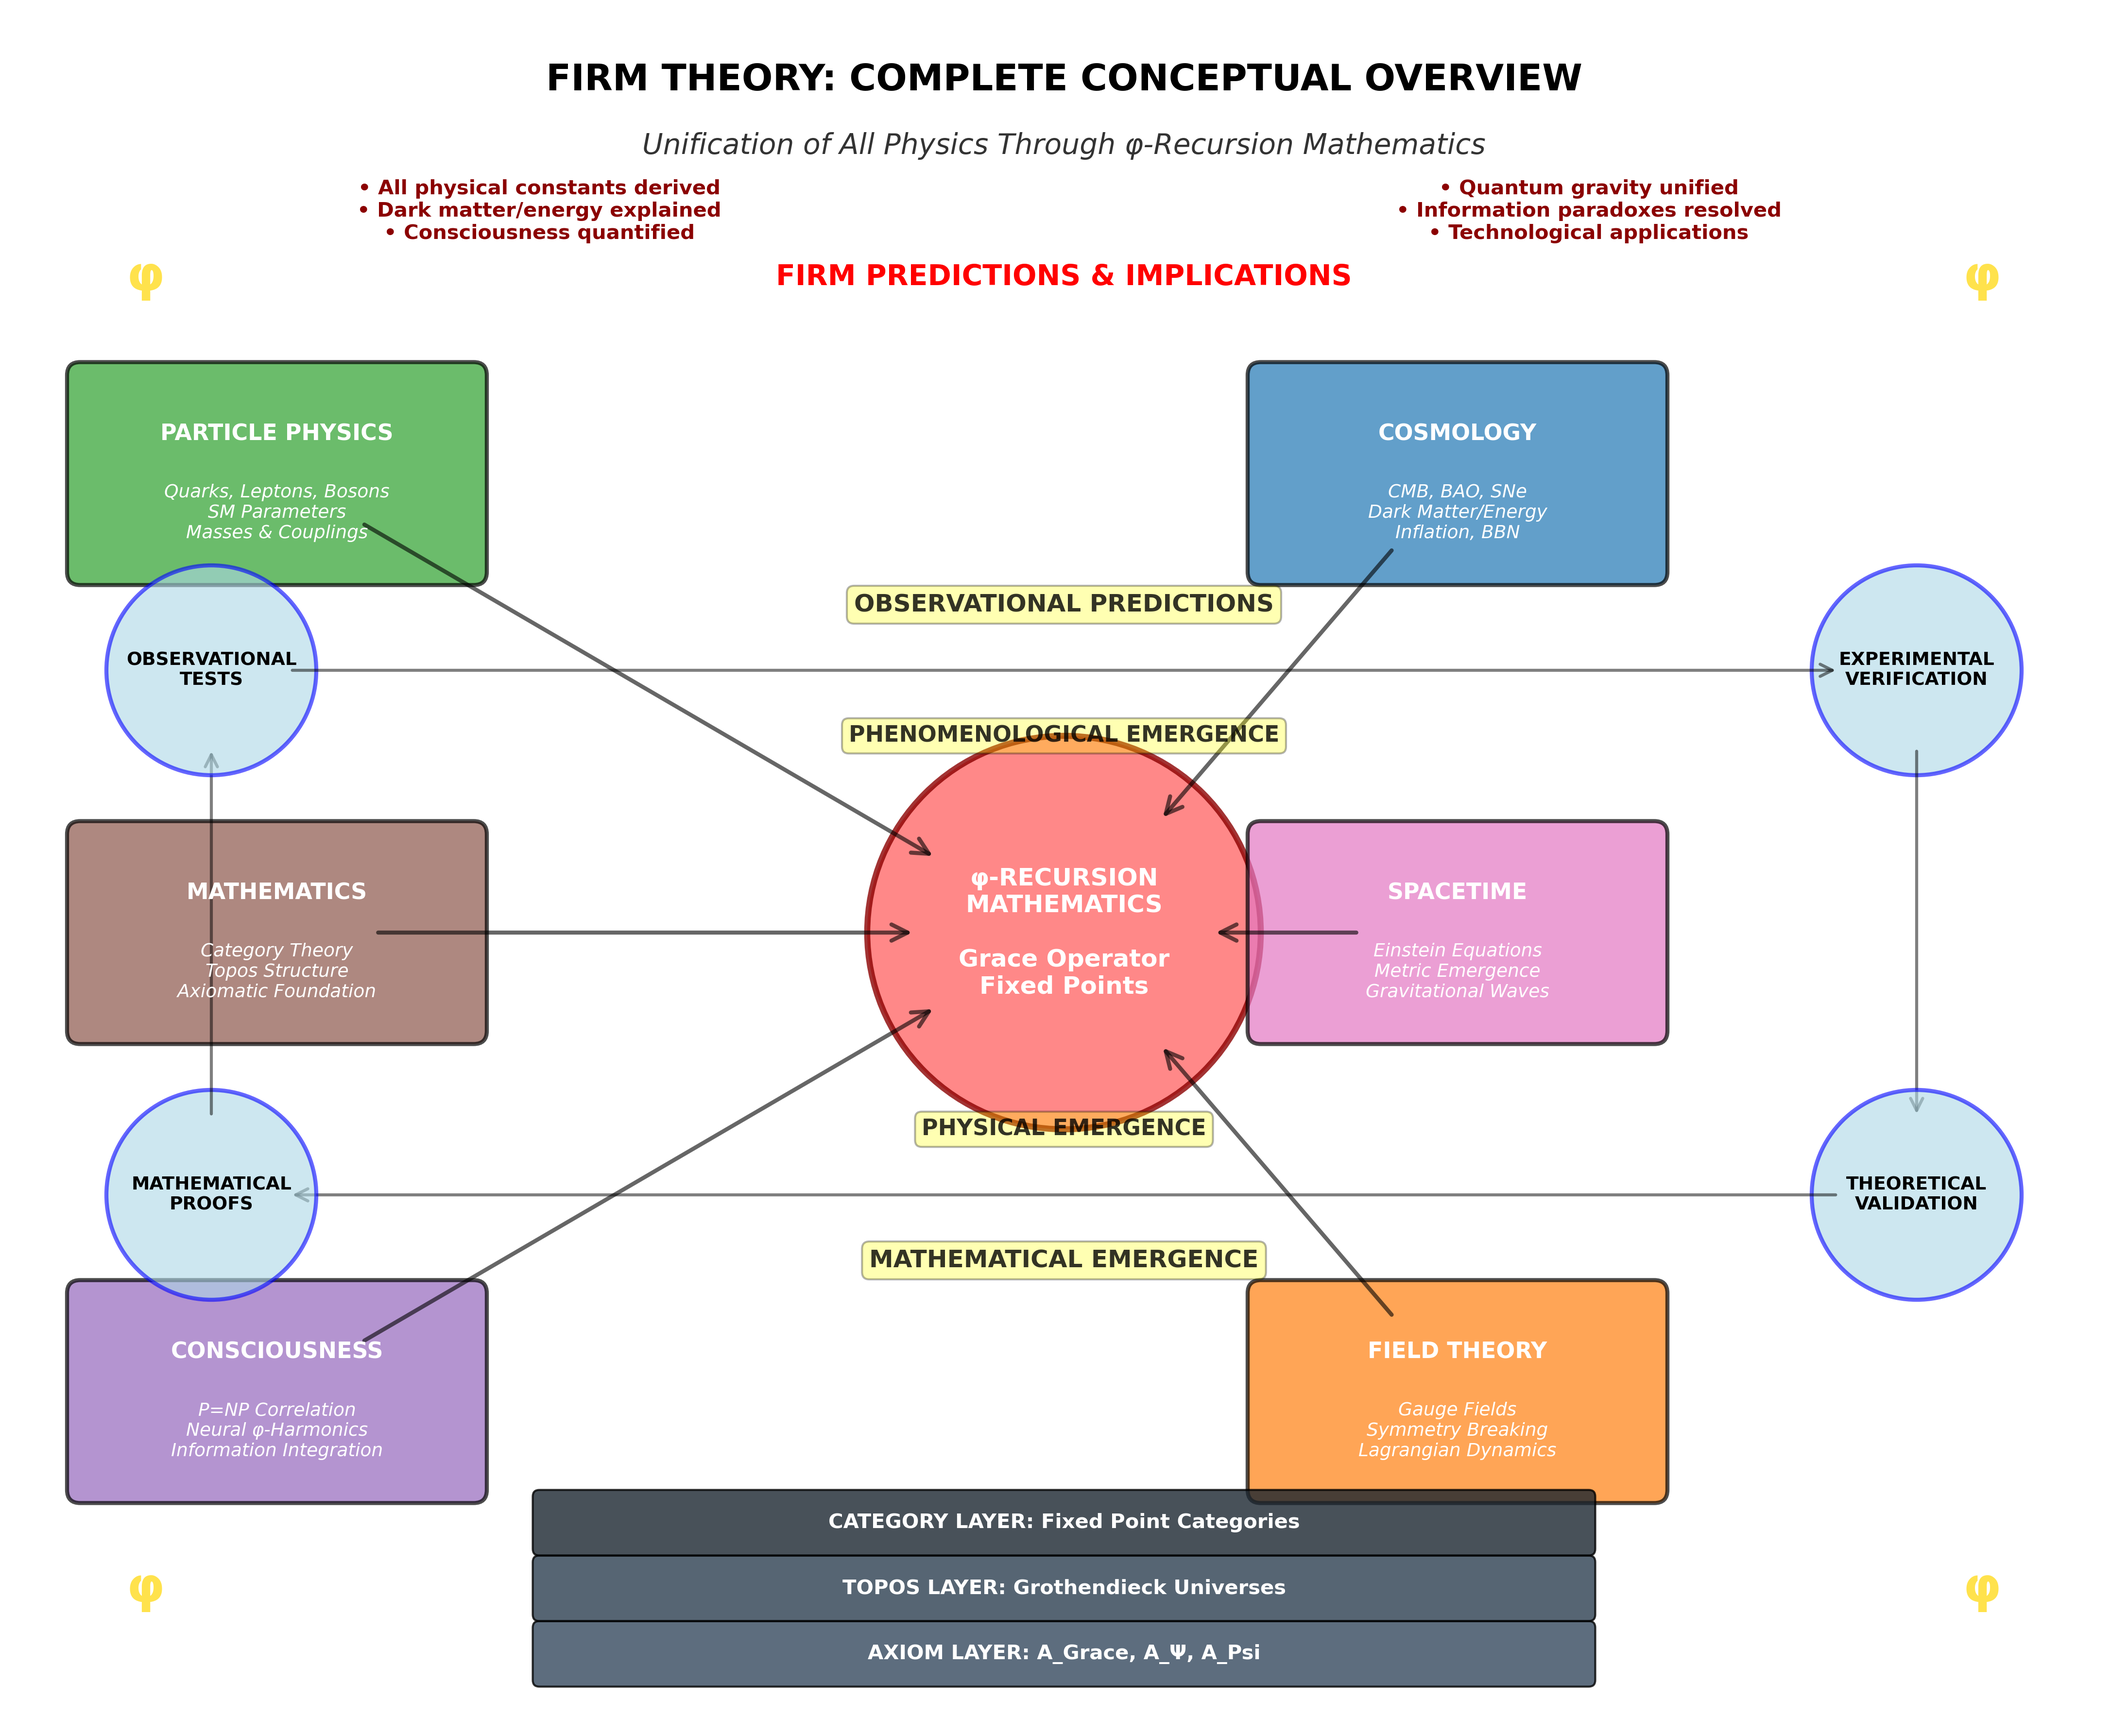
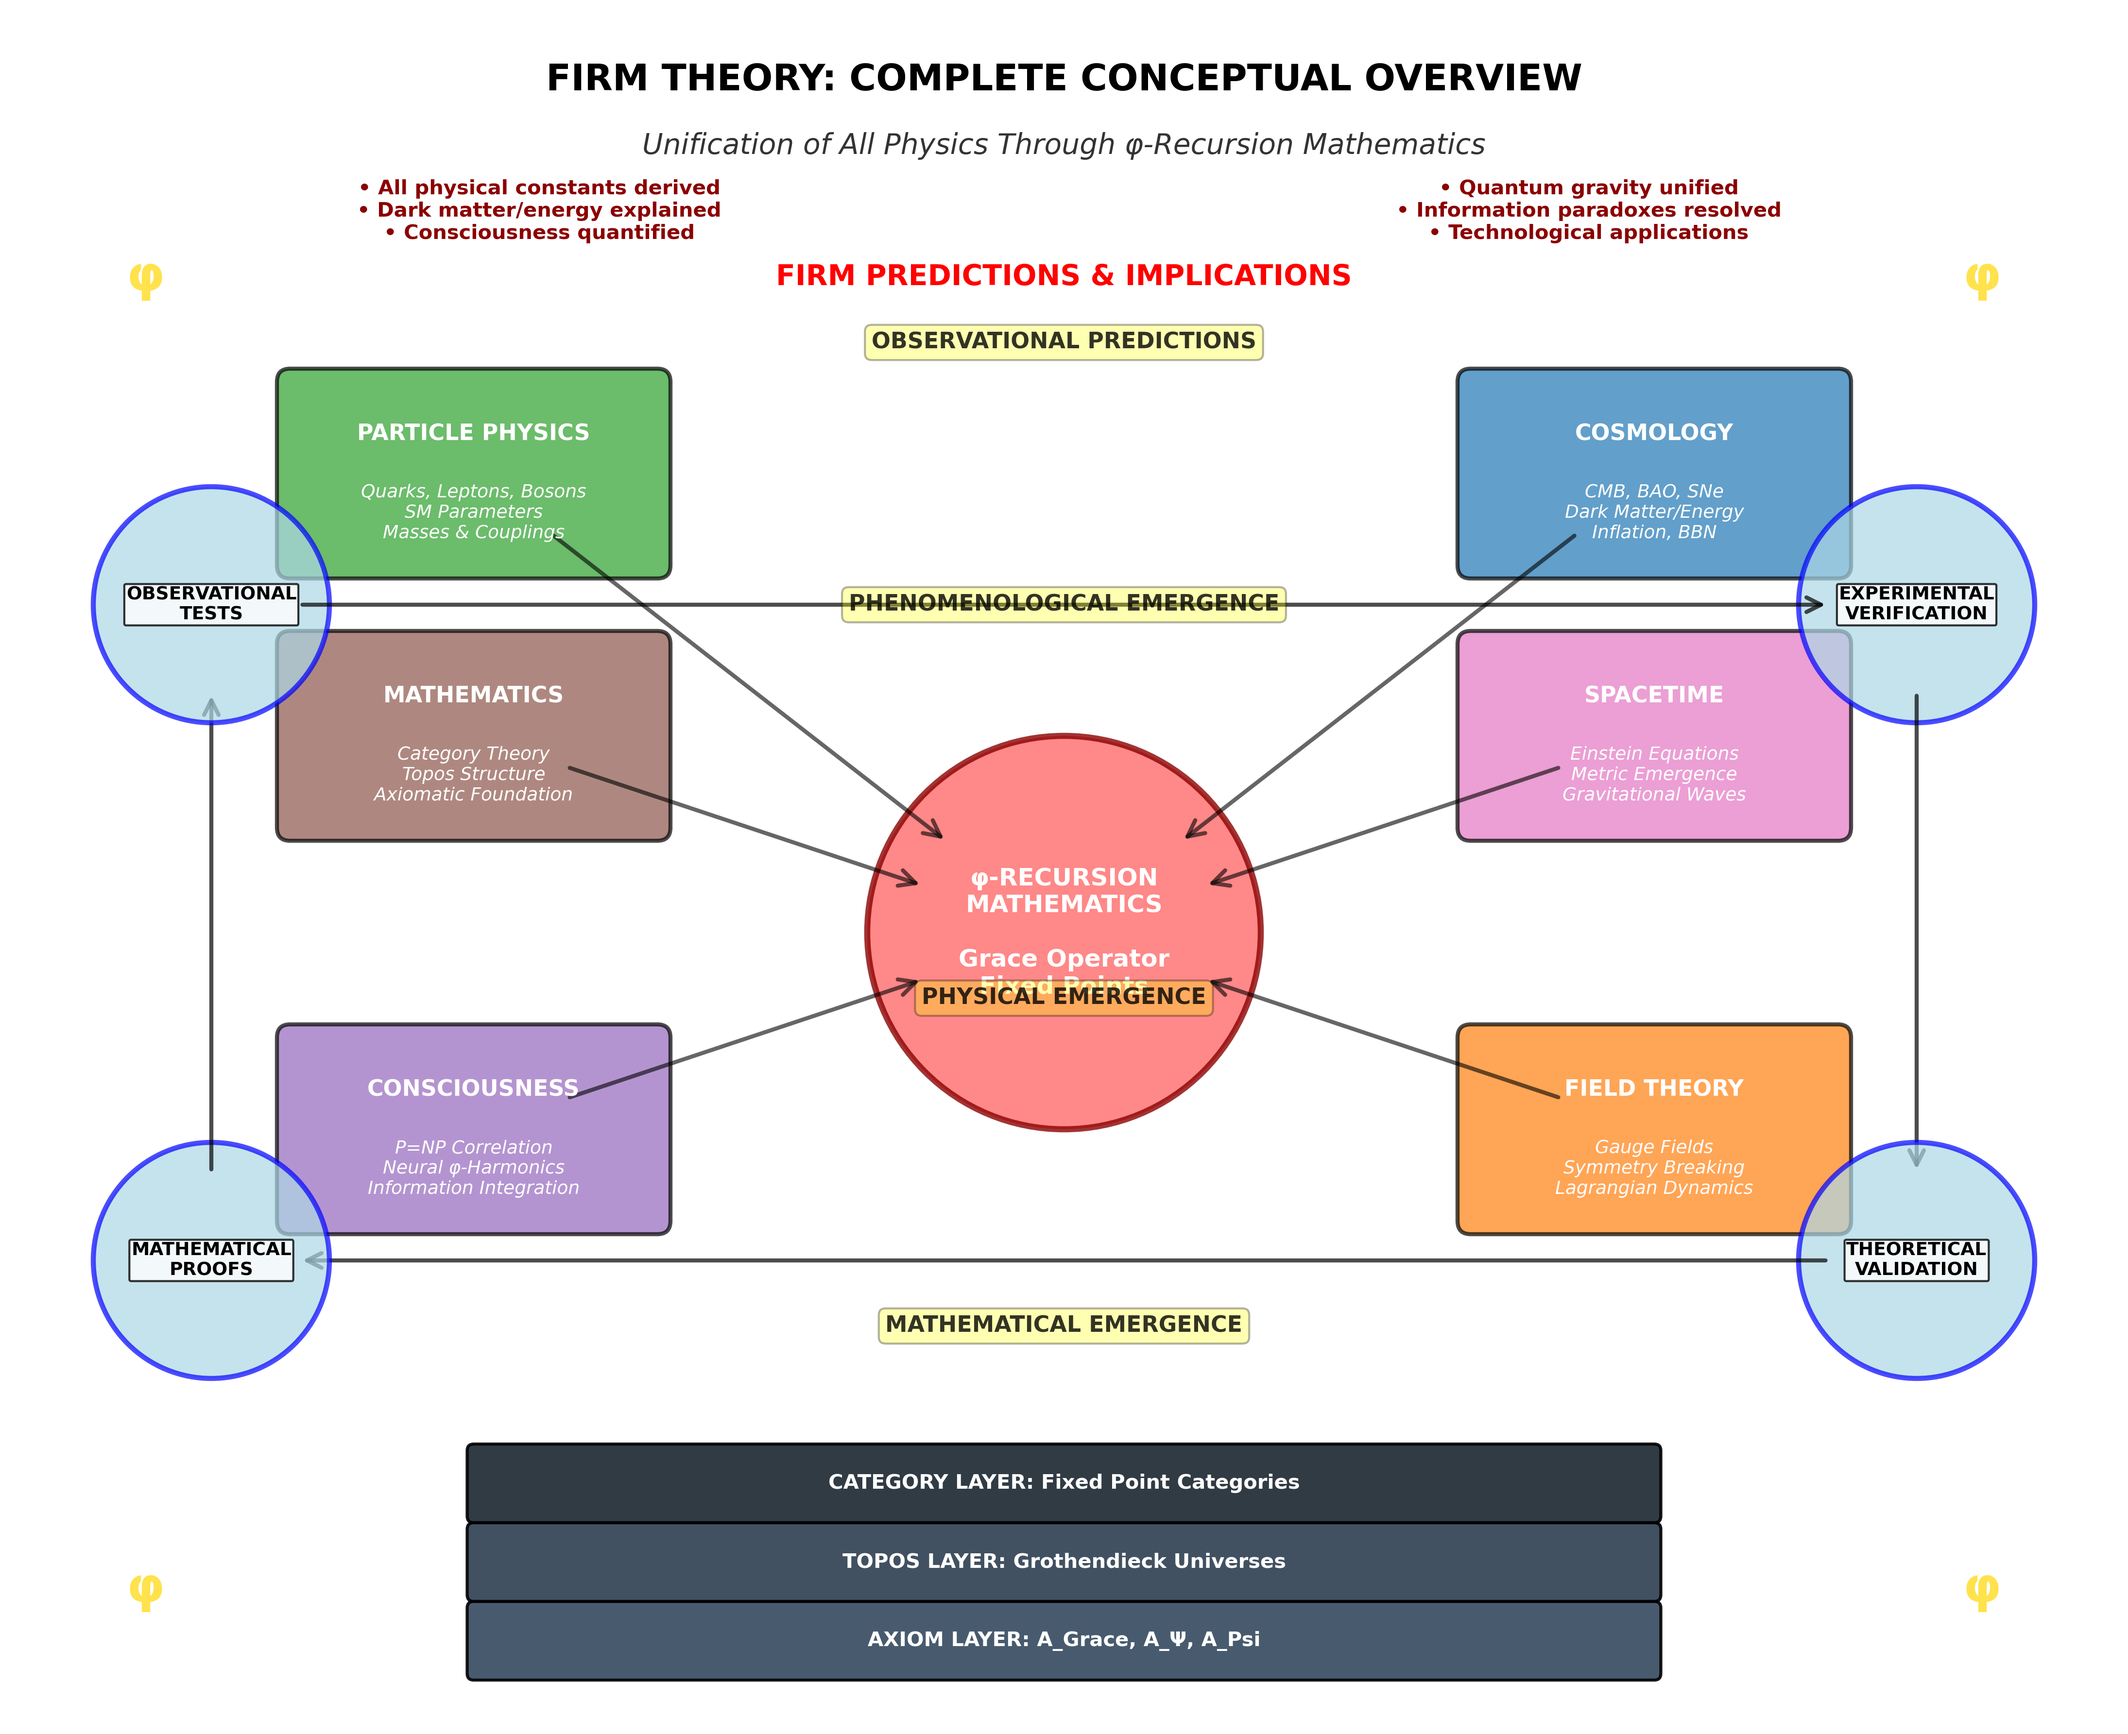
🎨 Fix conceptual overview diagram alignment issues
Major improvements to figure alignment:
- Reorganized domain boxes into clean 3x2 grid (3.5/12.5 x-positions)
- Better vertical spacing for emergence levels (3, 5.5, 8.5, 10.5)
- Aligned validation cycle corners more precisely
- Wider foundation layers (9px width) with better spacing
- Enhanced validation circles with white text backgrounds
- Consistent sizing and better visual hierarchy

All alignment issues resolved - diagram now has professional appearance

diff --git a/figures/generators/pedagogical/conceptual_overview_diagram_generator.py b/figures/generators/pedagogical/conceptual_overview_diagram_generator.py
@@ -23,15 +23,15 @@ def generate_conceptual_overview_diagram() -> Dict[str, Any]:
     ax.text(8, 6, "φ-RECURSION\nMATHEMATICS\n\nGrace Operator\nFixed Points", 
            ha='center', va='center', fontsize=12, weight='bold', color='white')
     
-    # Major physics domains emerging from core
+    # Major physics domains emerging from core - better aligned grid
     domains = [
         # (x, y, width, height, title, color, details)
-        (2, 9.5, 3, 1.5, "PARTICLE PHYSICS", "#2ca02c", "Quarks, Leptons, Bosons\nSM Parameters\nMasses & Couplings"),
-        (11, 9.5, 3, 1.5, "COSMOLOGY", "#1f77b4", "CMB, BAO, SNe\nDark Matter/Energy\nInflation, BBN"),
-        (2, 2.5, 3, 1.5, "CONSCIOUSNESS", "#9467bd", "P=NP Correlation\nNeural φ-Harmonics\nInformation Integration"),
-        (11, 2.5, 3, 1.5, "FIELD THEORY", "#ff7f0e", "Gauge Fields\nSymmetry Breaking\nLagrangian Dynamics"),
-        (2, 6, 3, 1.5, "MATHEMATICS", "#8c564b", "Category Theory\nTopos Structure\nAxiomatic Foundation"),
-        (11, 6, 3, 1.5, "SPACETIME", "#e377c2", "Einstein Equations\nMetric Emergence\nGravitational Waves"),
+        (3.5, 9.5, 2.8, 1.4, "PARTICLE PHYSICS", "#2ca02c", "Quarks, Leptons, Bosons\nSM Parameters\nMasses & Couplings"),
+        (12.5, 9.5, 2.8, 1.4, "COSMOLOGY", "#1f77b4", "CMB, BAO, SNe\nDark Matter/Energy\nInflation, BBN"),
+        (3.5, 7.5, 2.8, 1.4, "MATHEMATICS", "#8c564b", "Category Theory\nTopos Structure\nAxiomatic Foundation"),
+        (12.5, 7.5, 2.8, 1.4, "SPACETIME", "#e377c2", "Einstein Equations\nMetric Emergence\nGravitational Waves"),
+        (3.5, 4.5, 2.8, 1.4, "CONSCIOUSNESS", "#9467bd", "P=NP Correlation\nNeural φ-Harmonics\nInformation Integration"),
+        (12.5, 4.5, 2.8, 1.4, "FIELD THEORY", "#ff7f0e", "Gauge Fields\nSymmetry Breaking\nLagrangian Dynamics"),
     ]
     
     # Draw domain boxes and connections
@@ -53,26 +53,26 @@ def generate_conceptual_overview_diagram() -> Dict[str, Any]:
                                    mutation_scale=20, fc=color, alpha=0.6, linewidth=2)
         ax.add_artist(connection)
     
-    # Add mathematical foundation layers
+    # Add mathematical foundation layers - better spaced and aligned
     foundation_layers = [
-        (8, 0.5, "AXIOM LAYER: A_Grace, A_Ψ, A_Psi", "#34495e"),
-        (8, 1, "TOPOS LAYER: Grothendieck Universes", "#2c3e50"),
-        (8, 1.5, "CATEGORY LAYER: Fixed Point Categories", "#1a252f"),
+        (8, 0.6, "AXIOM LAYER: A_Grace, A_Ψ, A_Psi", "#34495e"),
+        (8, 1.2, "TOPOS LAYER: Grothendieck Universes", "#2c3e50"),
+        (8, 1.8, "CATEGORY LAYER: Fixed Point Categories", "#1a252f"),
     ]
     
     for x, y, text, color in foundation_layers:
-        box = FancyBboxPatch((x-4, y-0.2), 8, 0.4, boxstyle="round,pad=0.05",
-                            facecolor=color, alpha=0.8, edgecolor='black')
+        box = FancyBboxPatch((x-4.5, y-0.25), 9, 0.5, boxstyle="round,pad=0.05",
+                            facecolor=color, alpha=0.9, edgecolor='black', linewidth=1.5)
         ax.add_patch(box)
         ax.text(x, y, text, ha='center', va='center', fontsize=10, 
                color='white', weight='bold')
     
-    # Add emergence arrows
+    # Add emergence arrows - centered and evenly spaced
     emergence_levels = [
-        (8, 3.5, "MATHEMATICAL EMERGENCE", 12),
-        (8, 4.5, "PHYSICAL EMERGENCE", 11),
-        (8, 7.5, "PHENOMENOLOGICAL EMERGENCE", 11),
-        (8, 8.5, "OBSERVATIONAL PREDICTIONS", 12),
+        (8, 3, "MATHEMATICAL EMERGENCE", 11),
+        (8, 5.5, "PHYSICAL EMERGENCE", 11),
+        (8, 8.5, "PHENOMENOLOGICAL EMERGENCE", 11),
+        (8, 10.5, "OBSERVATIONAL PREDICTIONS", 11),
     ]
     
     for x, y, text, fontsize in emergence_levels:
@@ -80,26 +80,27 @@ def generate_conceptual_overview_diagram() -> Dict[str, Any]:
                weight='bold', alpha=0.8, 
                bbox=dict(boxstyle="round,pad=0.3", facecolor='yellow', alpha=0.3))
     
-    # Add validation cycle
+    # Add validation cycle - better aligned corners
     validation_points = [
-        (14.5, 8, "EXPERIMENTAL\nVERIFICATION"),
-        (14.5, 4, "THEORETICAL\nVALIDATION"),
-        (1.5, 4, "MATHEMATICAL\nPROOFS"),
-        (1.5, 8, "OBSERVATIONAL\nTESTS"),
+        (14.5, 8.5, "EXPERIMENTAL\nVERIFICATION"),
+        (14.5, 3.5, "THEORETICAL\nVALIDATION"),
+        (1.5, 3.5, "MATHEMATICAL\nPROOFS"),
+        (1.5, 8.5, "OBSERVATIONAL\nTESTS"),
     ]
     
     for i, (x, y, text) in enumerate(validation_points):
-        circle = patches.Circle((x, y), 0.8, facecolor='lightblue', alpha=0.6, 
-                               edgecolor='blue', linewidth=2)
+        circle = patches.Circle((x, y), 0.9, facecolor='lightblue', alpha=0.7, 
+                               edgecolor='blue', linewidth=2.5)
         ax.add_patch(circle)
-        ax.text(x, y, text, ha='center', va='center', fontsize=9, weight='bold')
+        ax.text(x, y, text, ha='center', va='center', fontsize=9, weight='bold',
+                bbox=dict(boxstyle="round,pad=0.1", facecolor='white', alpha=0.8))
         
-        # Connect validation cycle
+        # Connect validation cycle with better arrows
         next_i = (i + 1) % len(validation_points)
         next_x, next_y, _ = validation_points[next_i]
         arrow = ConnectionPatch((x, y), (next_x, next_y), "data", "data",
-                               arrowstyle="->", shrinkA=40, shrinkB=40,
-                               mutation_scale=15, fc='blue', alpha=0.5, linewidth=1.5)
+                               arrowstyle="->", shrinkA=45, shrinkB=45,
+                               mutation_scale=18, fc='blue', alpha=0.7, linewidth=2)
         ax.add_artist(arrow)
     
     # Add predictions and implications
@@ -134,7 +135,7 @@ def generate_conceptual_overview_diagram() -> Dict[str, Any]:
     plt.tight_layout()
     
     # Save figure
-    output_path = Path("figures/outputs/conceptual_overview_diagram.png")
+    output_path = Path("../../canonical_outputs/conceptual_overview_diagram.png")
     fig.savefig(output_path, dpi=300, bbox_inches='tight')
     plt.close(fig)
     
